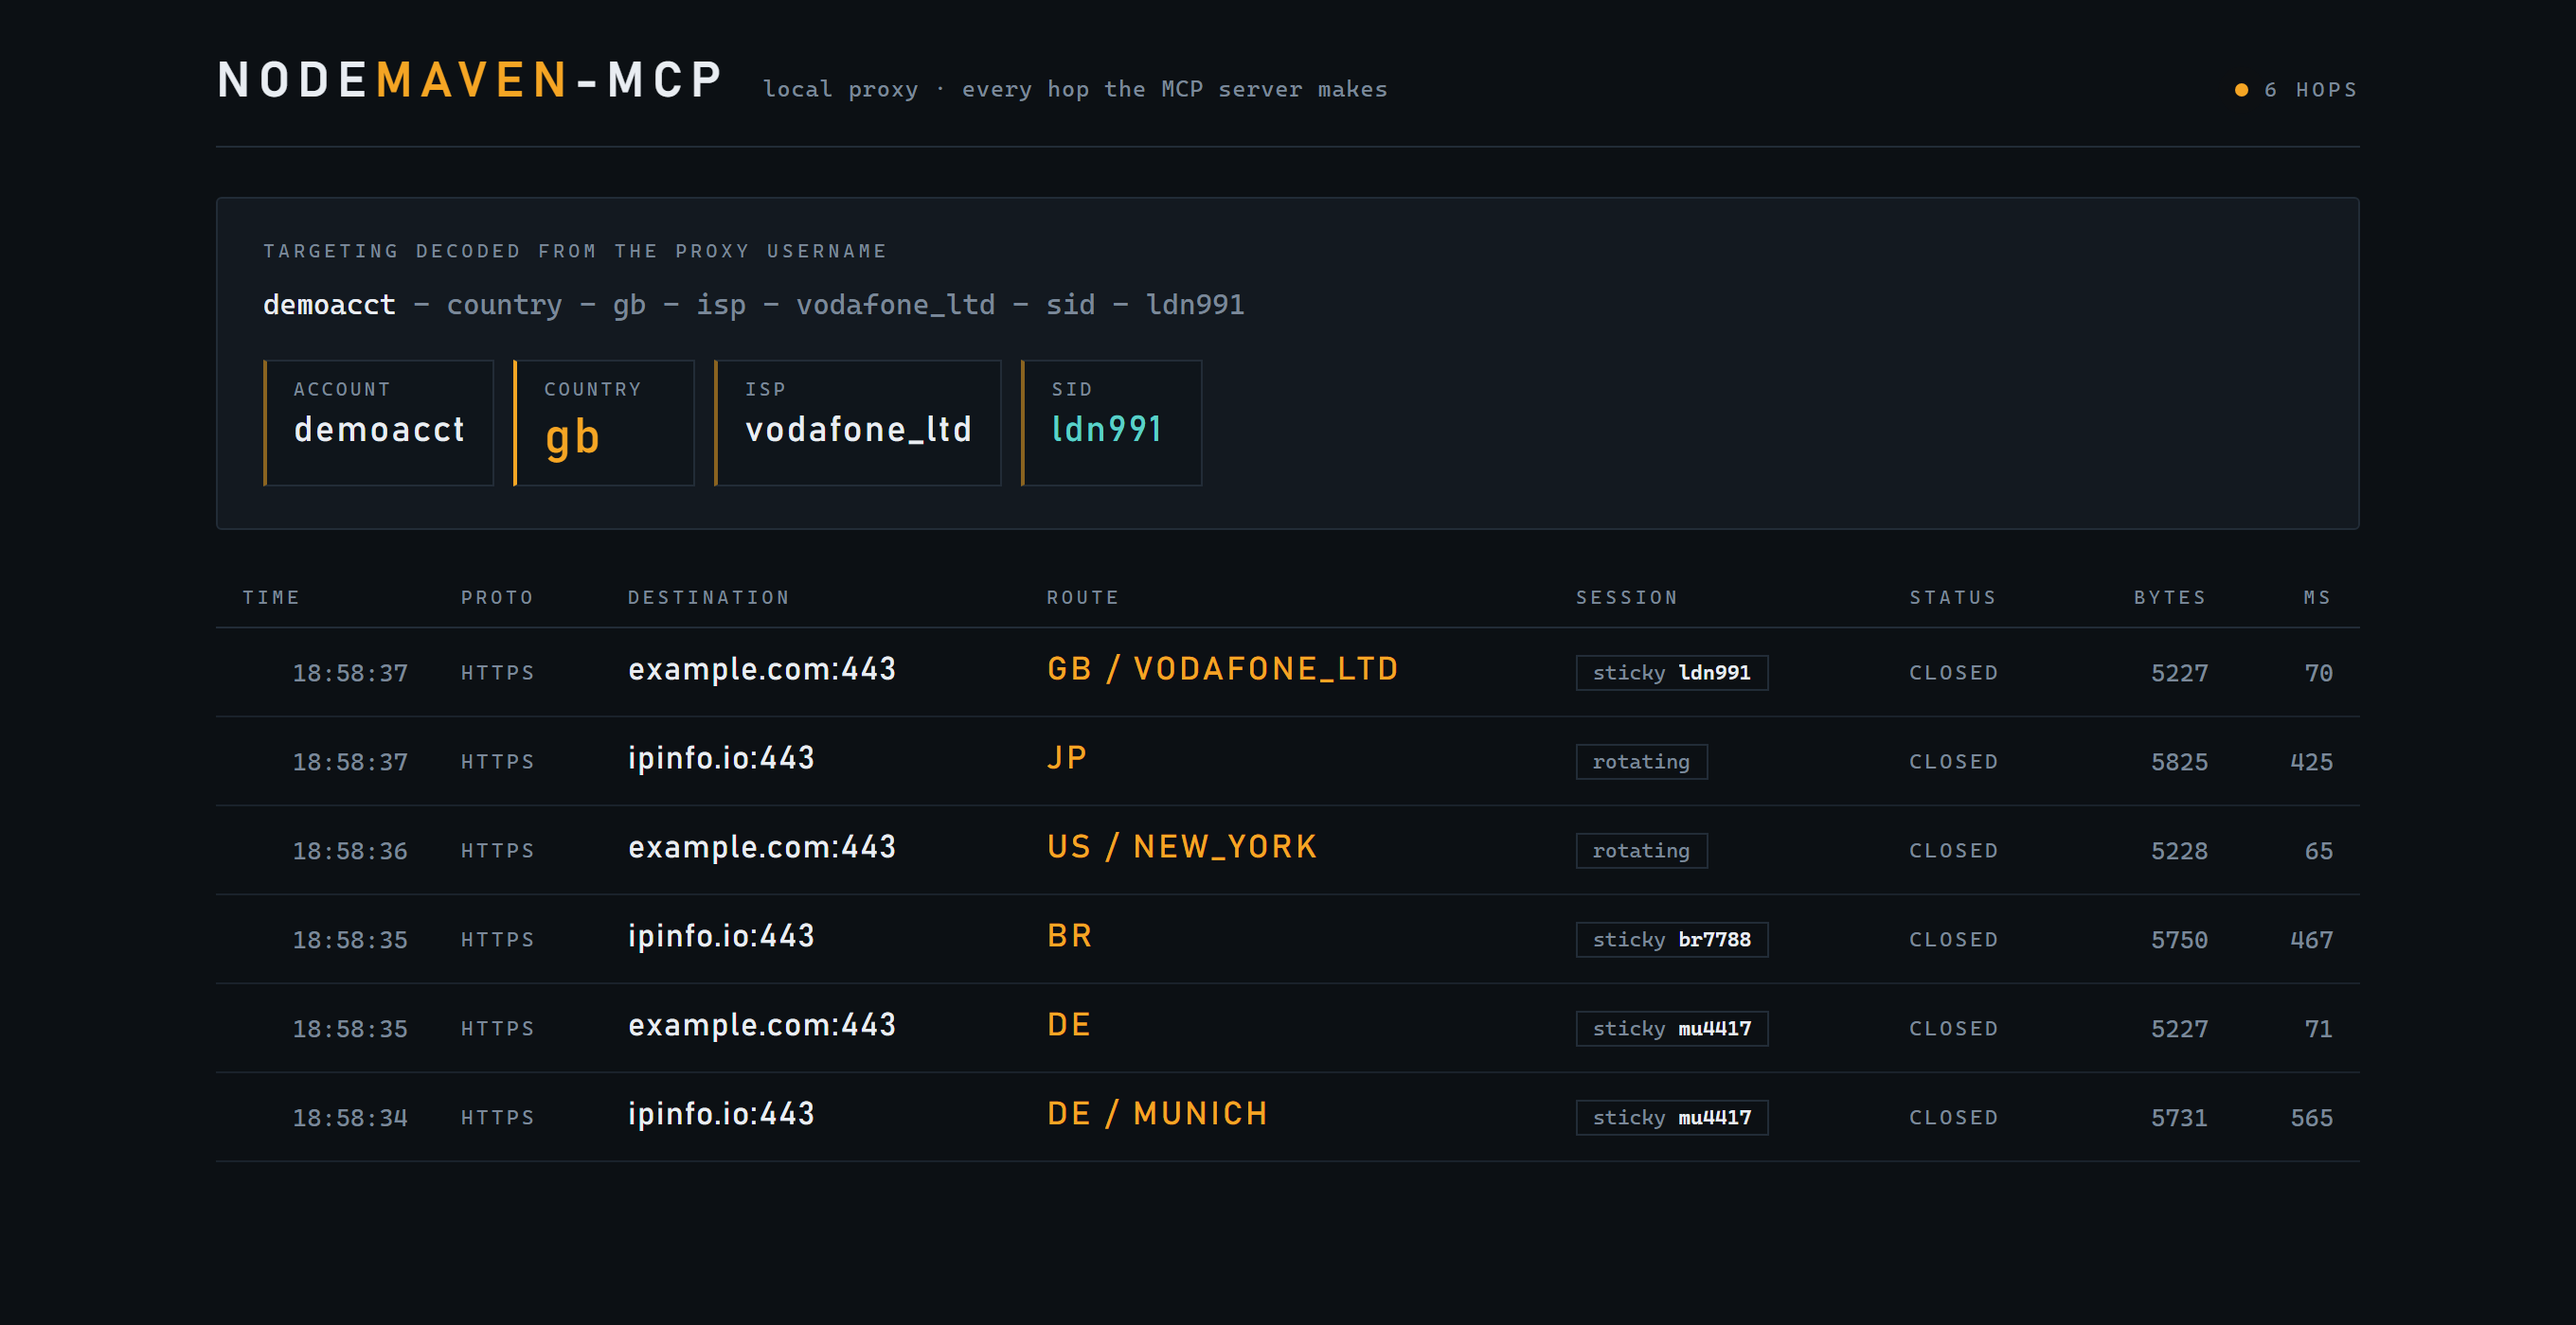
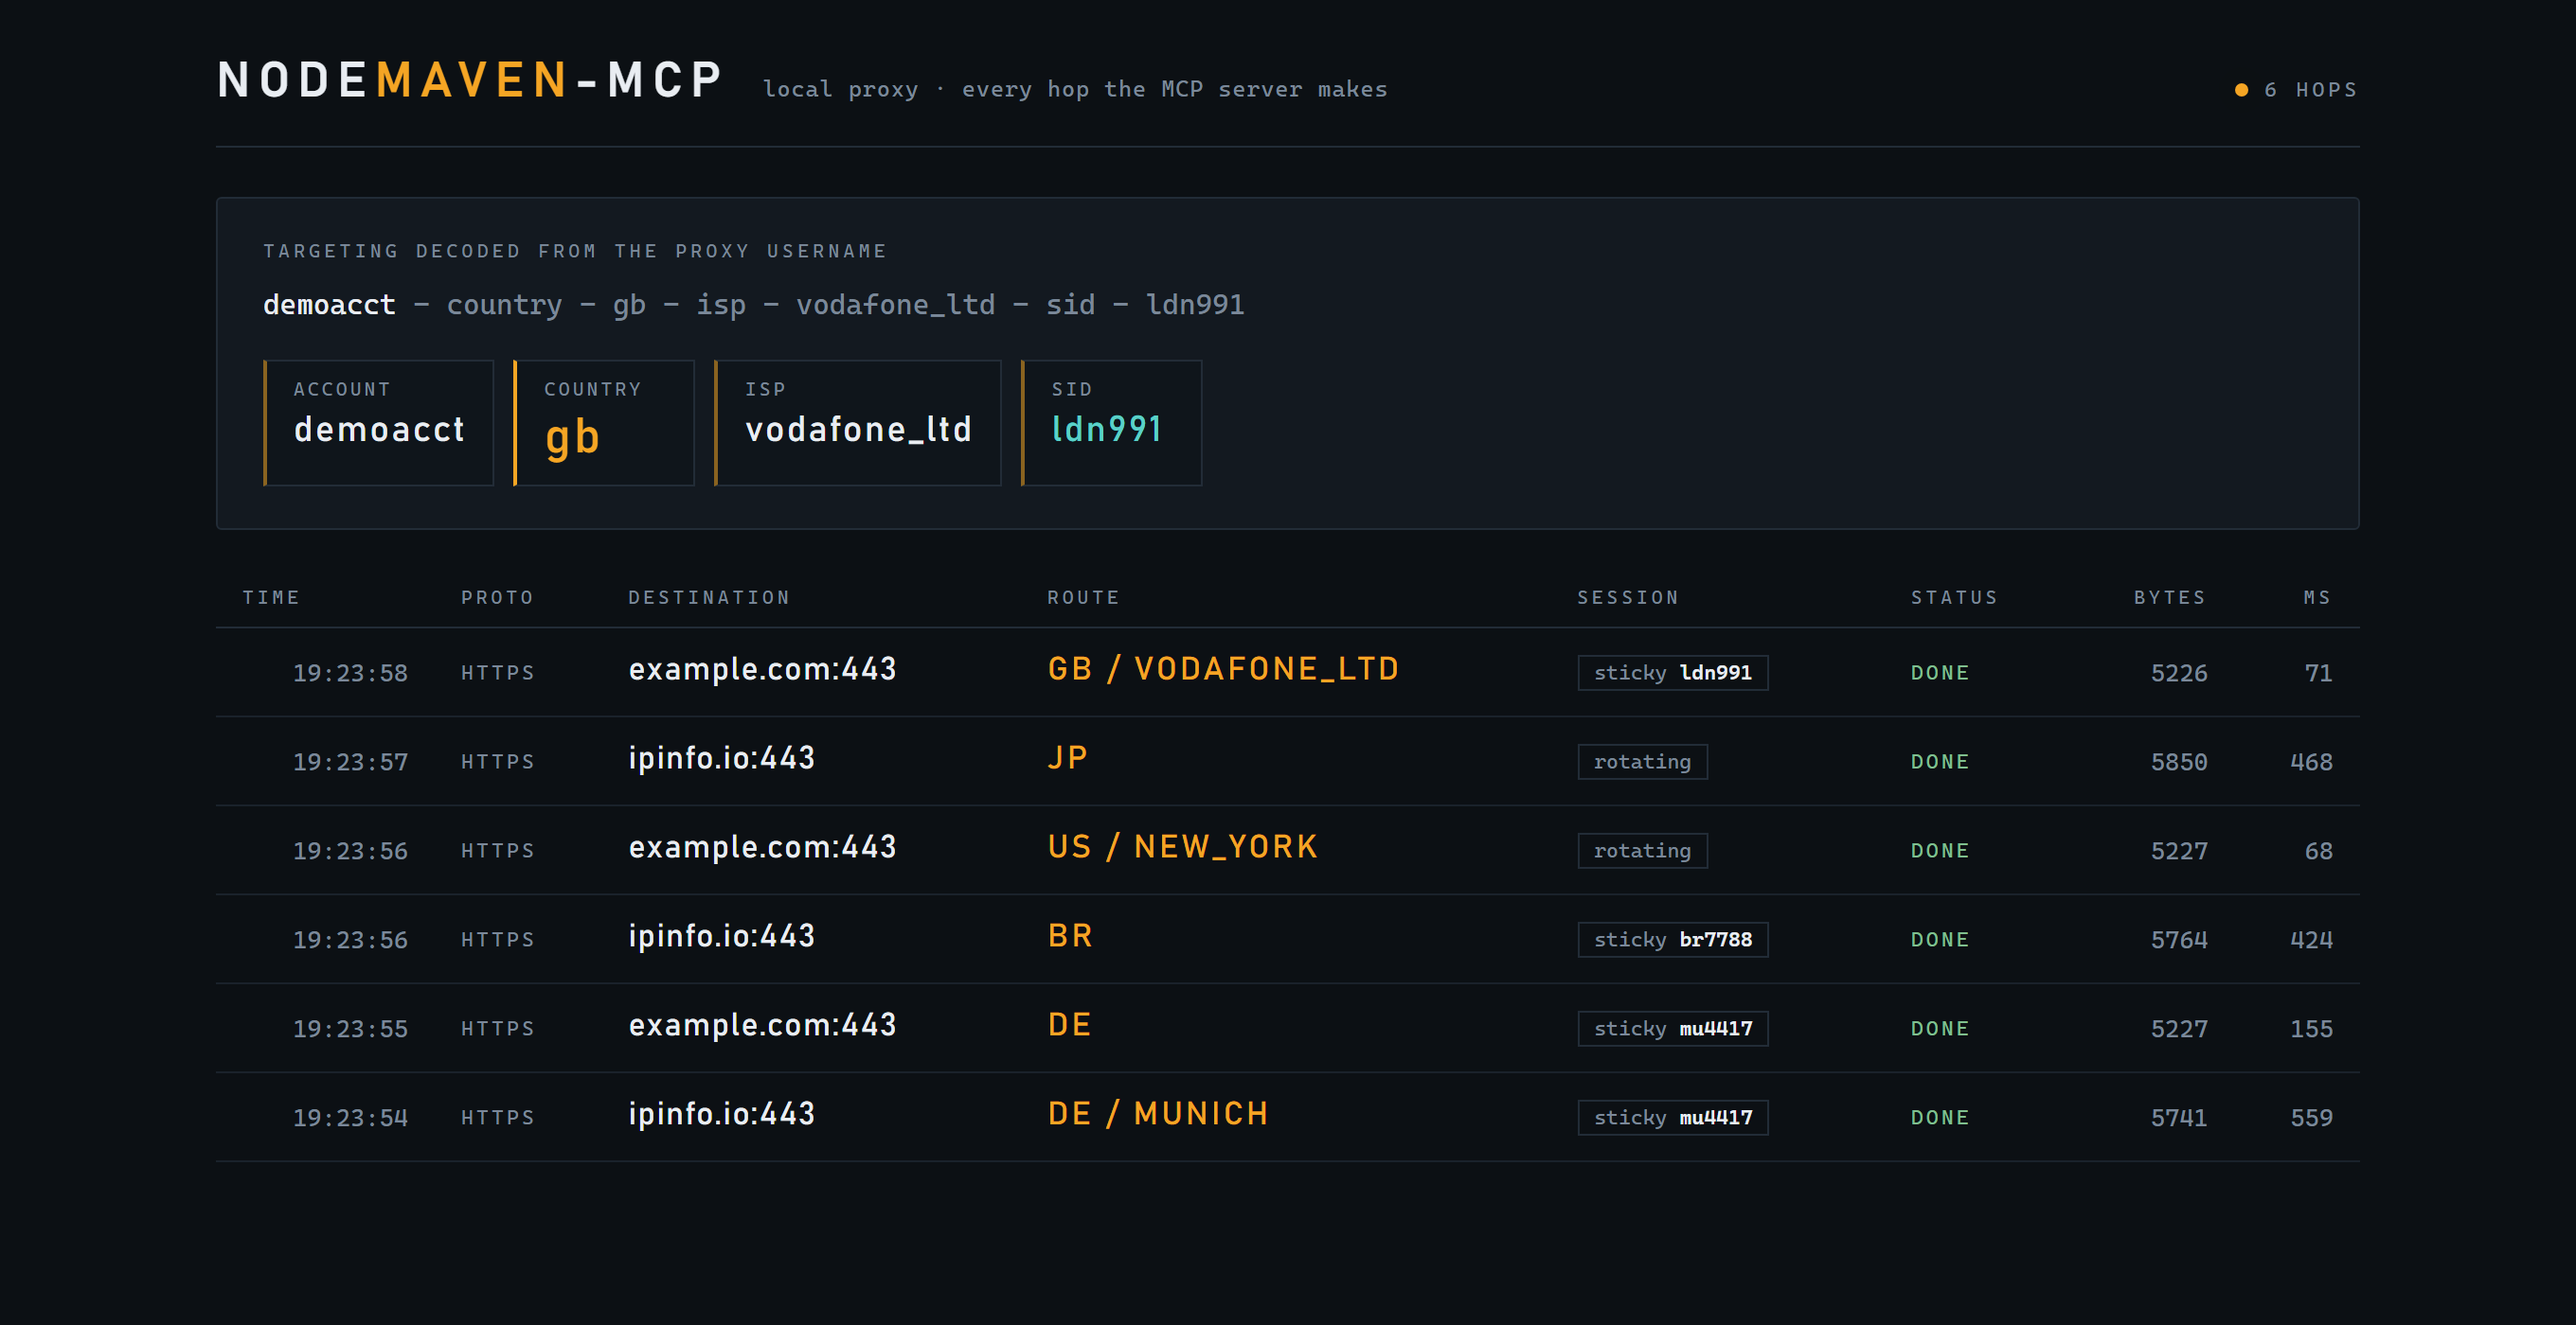
say done instead of closed when a tunnel finishes

diff --git a/examples/traffic_dashboard.py b/examples/traffic_dashboard.py
@@ -135,7 +135,7 @@ async def handle_proxy(client_reader, client_writer) -> None:
             publish(
                 {
                     **event,
-                    "status": "closed",
+                    "status": "done",
                     "bytes": counter.get("down"),
                     "ms": round((time.perf_counter() - started) * 1000),
                 }
@@ -226,7 +226,7 @@ PAGE = """<!doctype html>
         color:var(--mute);font-size:11px}
   .chip b{color:var(--text);font-weight:500}
   .st{font-size:11px;letter-spacing:.14em;text-transform:uppercase;color:var(--mute)}
-  .st.open{color:var(--cyan)} .st.error{color:#ff6b6b}
+  .st.open{color:var(--cyan)} .st.done{color:#7fbf8f} .st.error{color:#ff6b6b}
   .num{color:var(--mute);text-align:right}
   tbody tr:first-child td{animation:land .7s ease-out}
   @keyframes land{from{background:rgba(245,165,36,.09)}to{background:transparent}}
